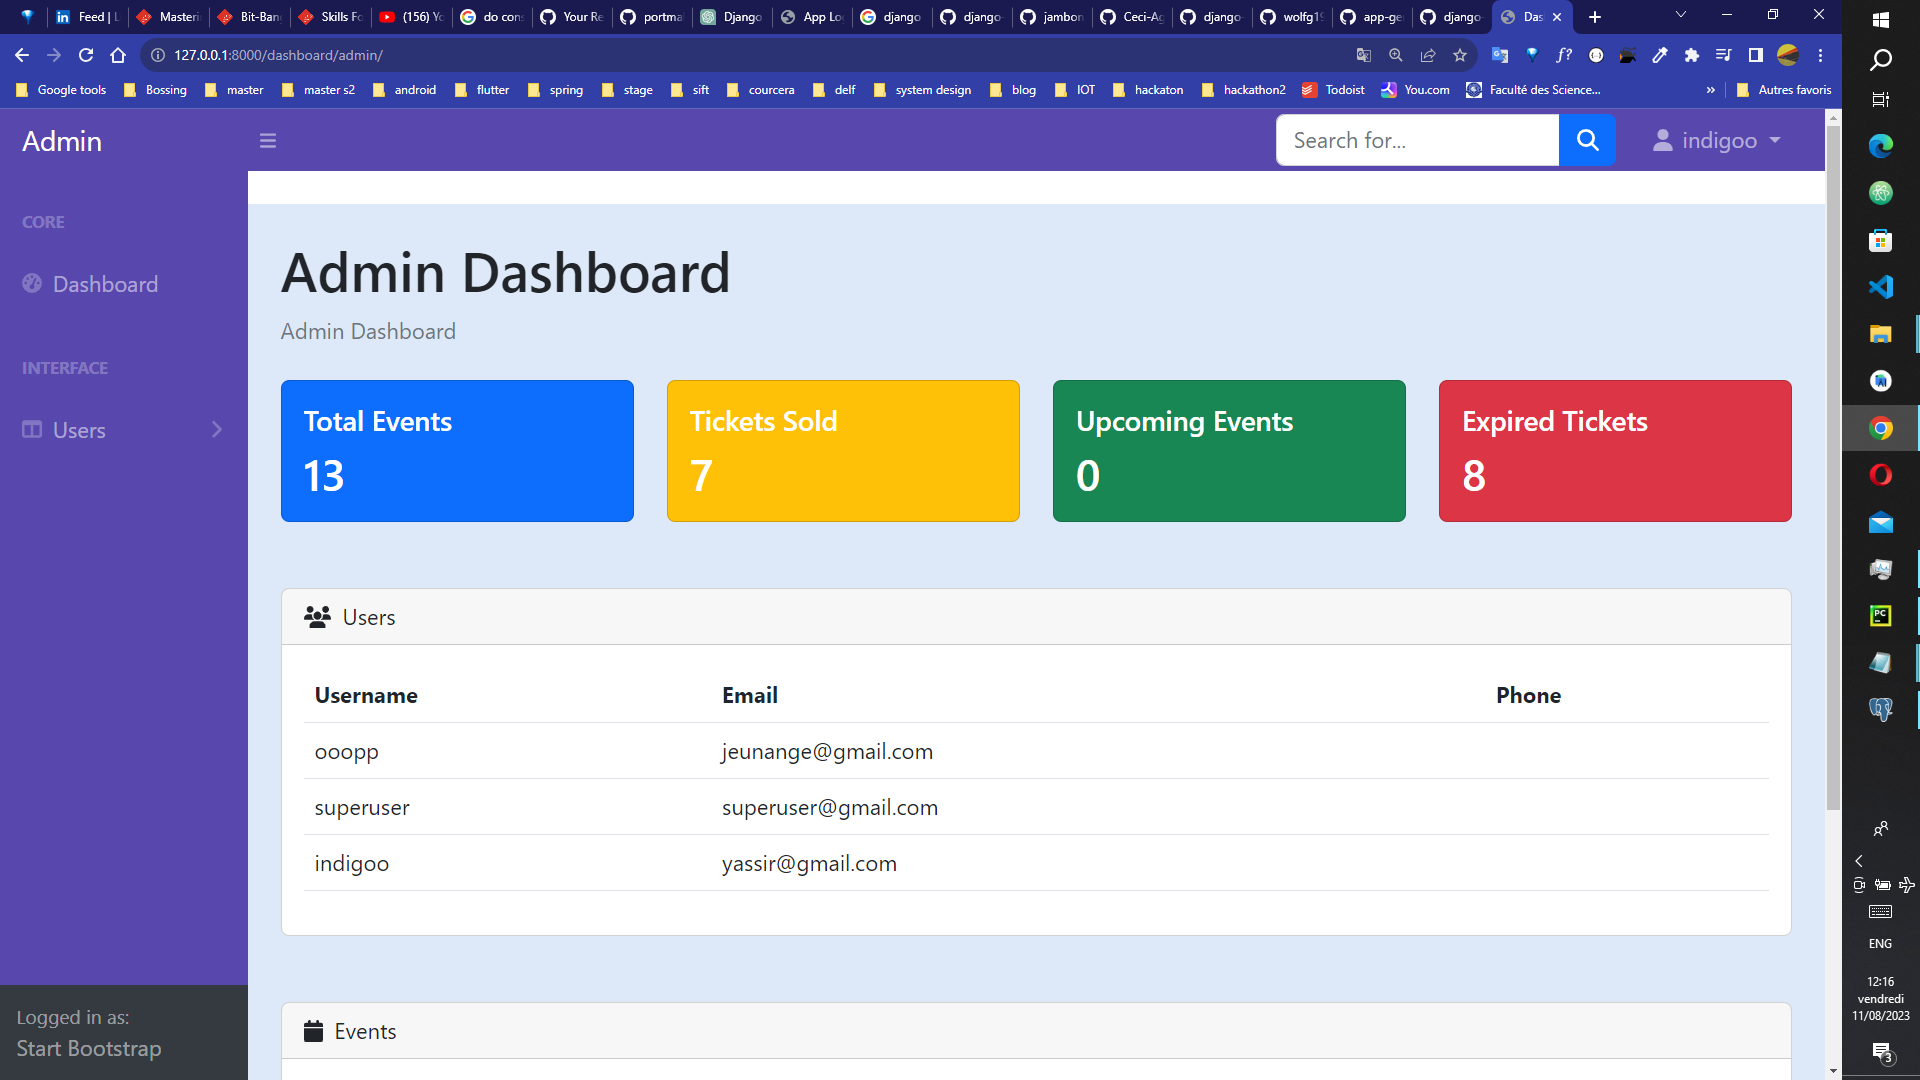
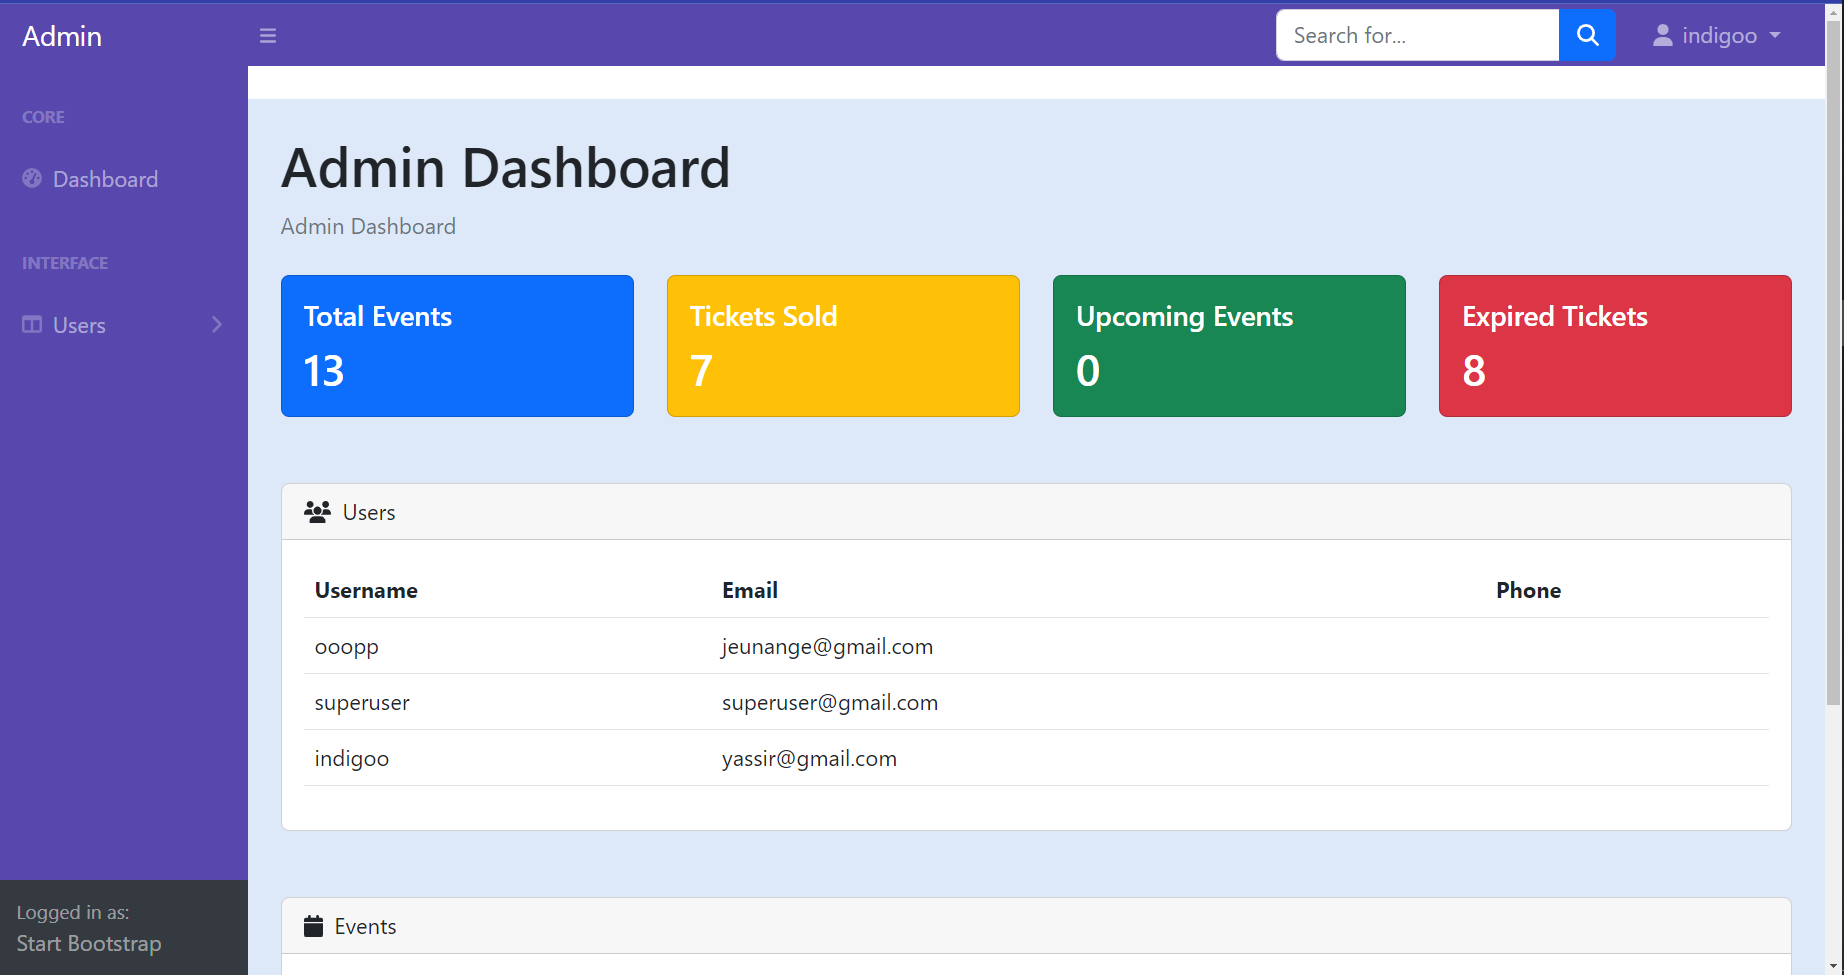
add readme and screenshot

diff --git a/README.md b/README.md
@@ -19,12 +19,15 @@ Event Ticket Reservation is a Django-based web application that allows users to 
 ## Screenshots
 
 Event App: 
+
 ![Event App Screenshot](screenshots/eventsapp.png)
 
 Dashboard Admin:
+
 ![Dashboard Admin Screenshot](screenshots/dashboardadmin.png)
 
 Dashboard Manager:
+
 ![Dashboard Manager Screenshot](screenshots/dashboardmanager.png)
 
 
@@ -80,4 +83,4 @@ Contributions are welcome! Fork the repository, create a new branch, and submit 
 
 ## License
 
-This project is licensed under the [MIT License](./LICENCE).
+This project is licensed under the [MIT License](./LICENSE).
